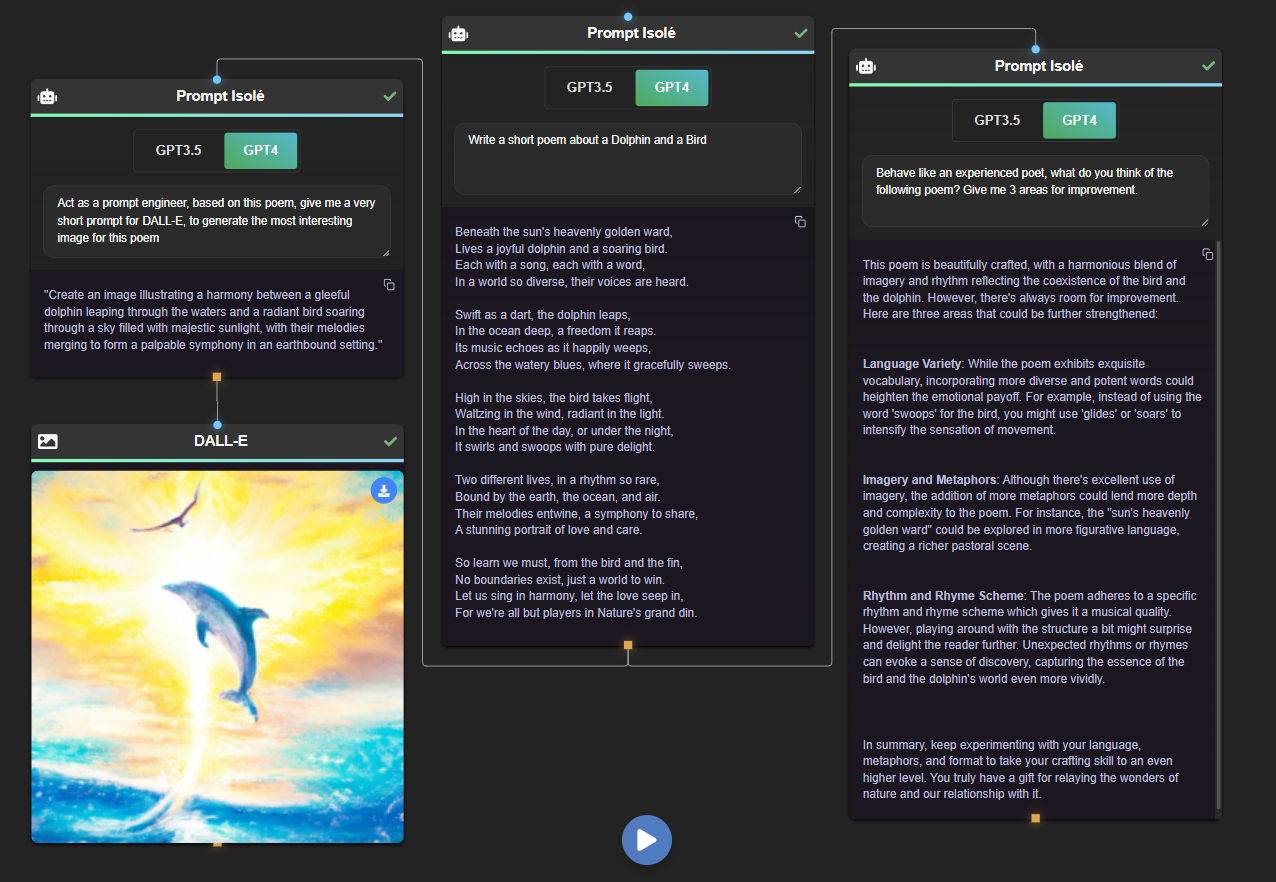
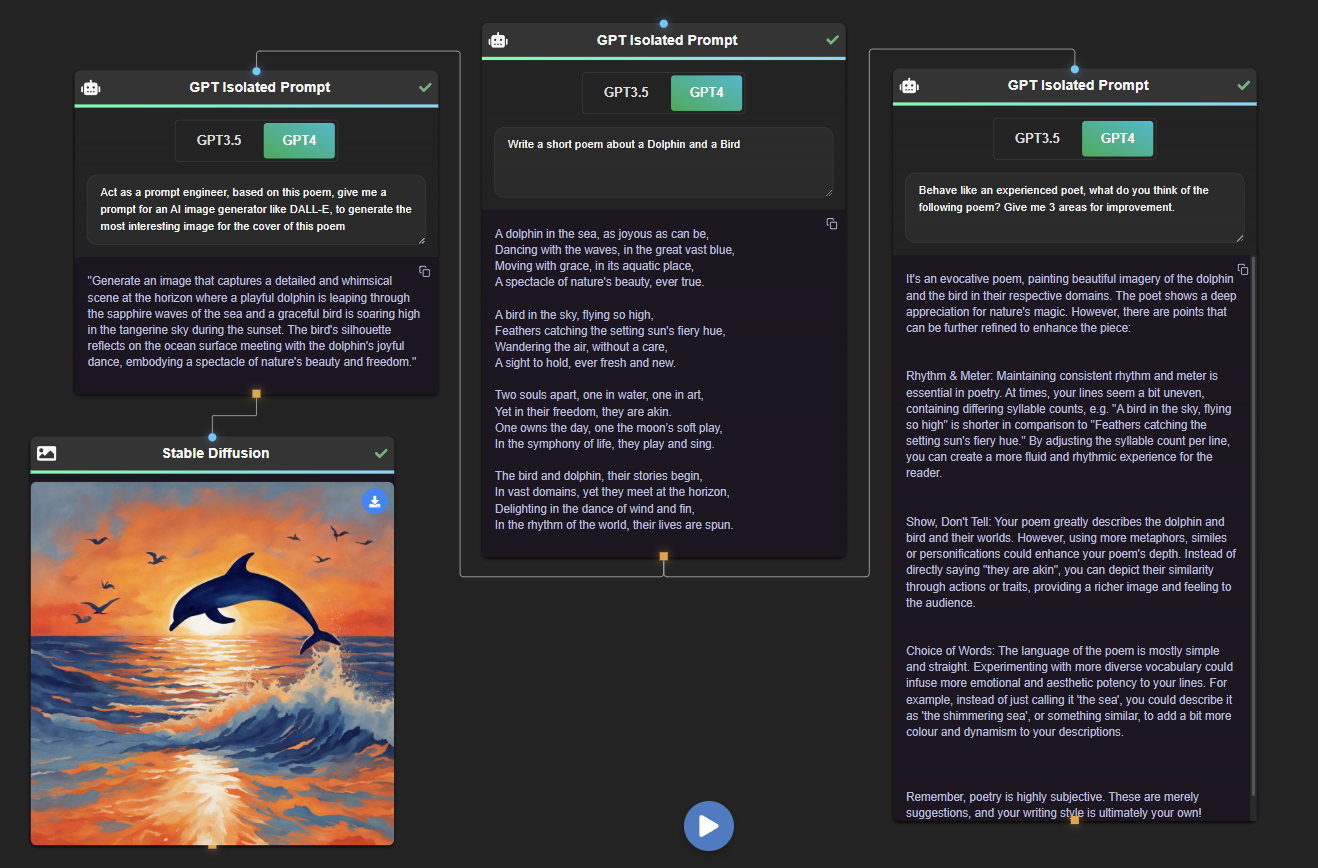
update readme and assets

diff --git a/README.md b/README.md
@@ -9,11 +9,9 @@ Imagine setting up a simple workflow where:
 - One node generates a poem
 - One node gives a review of the poem
 - One node creates a prompt for the cover of the poem
-- One node makes the cover
+- One node makes the cover with Stable Diffusion
 
 ![image-scenario-1-1](assets/scenario-1-1.png)
-
-N.B : There will be AIs more powerful than DALL-E to generate images in the near future of the application (Stable Diffusion, MidJourney)
 
 If we want to change the idea of the poem, we can edit the first node, and keep the same flow. 
 
